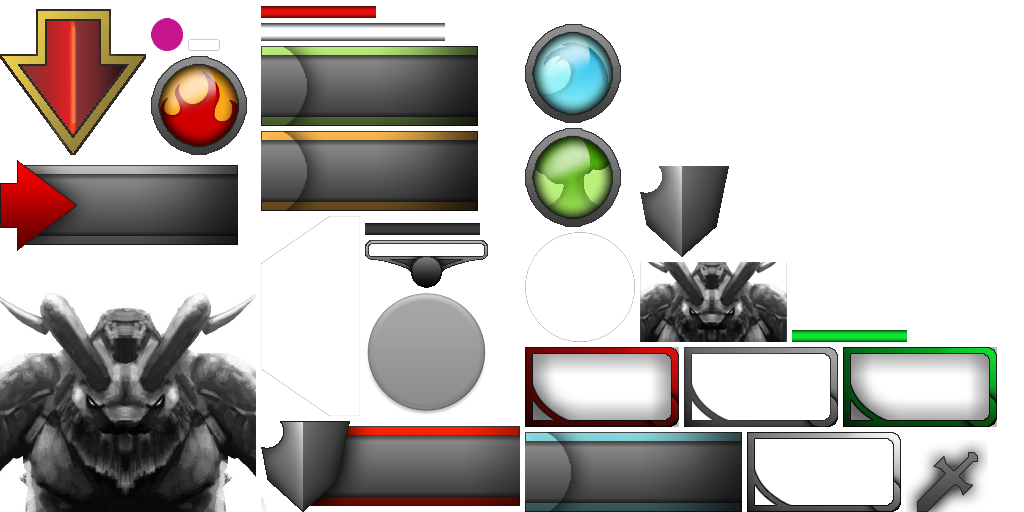
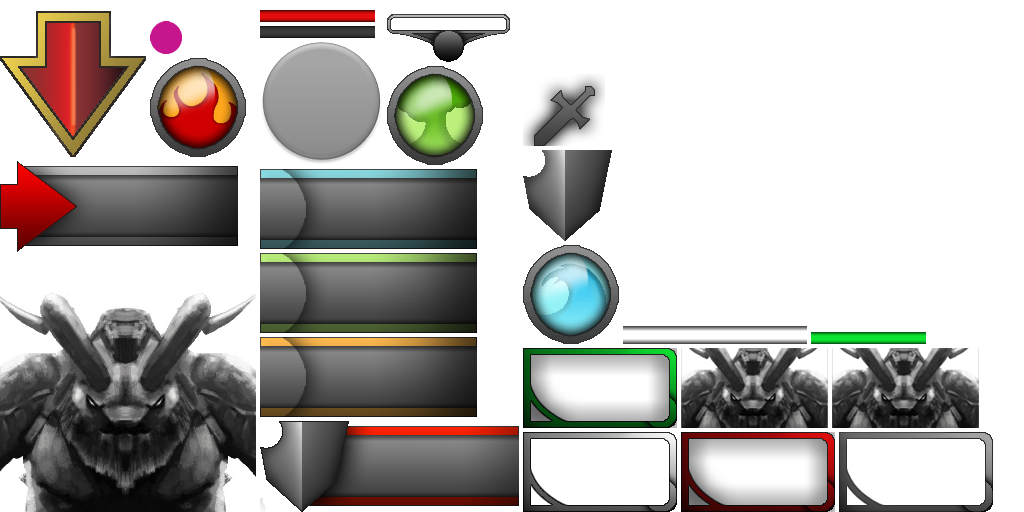
Button-Background austauschen je nach Typ

diff --git a/Unity Project/Assets/TheRealBoB/Scripts/View/UI/BAttackButton.cs b/Unity Project/Assets/TheRealBoB/Scripts/View/UI/BAttackButton.cs
@@ -6,6 +6,8 @@ public class BAttackButton : MonoBehaviour {
 	public UILabel nameLabel;
 	public UILabel damageLabel;
 	public UISprite typeSprite;
+	public UISprite typeBackgroundSprite;
+	public string backgroundPostfix;
 
 	BCombatMenu parent;
 	Attack attack;
@@ -17,6 +19,7 @@ public class BAttackButton : MonoBehaviour {
 		nameLabel.text = attack.name;
 		damageLabel.text = attack.damage.ToString();
 		typeSprite.spriteName = attack.type.name;
+		typeBackgroundSprite.spriteName = attack.type.name + backgroundPostfix;
 	}
 
 	public void OnClick() 
